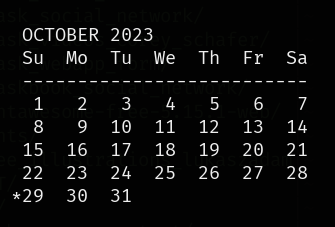
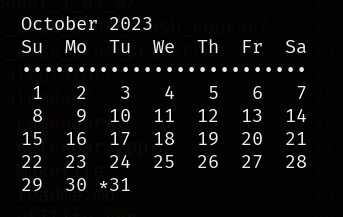
Update project
* remove uppercase letters
* change border design
* update screenshot

diff --git a/calendar.cpp b/calendar.cpp
@@ -17,7 +17,7 @@ int main()
     std::cout << '\n';
     std::cout << "  " << getMonth(month) << " " << year << '\n';
     std::cout << "  Su  Mo  Tu  We  Th  Fr  Sa" << '\n';
-    std::cout << "  --------------------------" << '\n';
+    std::cout << "  ••••••••••••••••••••••••••" << '\n';
 
     for (int d = 1; d <= monthEnd; d++)
     {

diff --git a/utility.cpp b/utility.cpp
@@ -123,9 +123,6 @@ std::string getMonth(int m)
             break;
     }
 
-    for (auto & c: month)
-        c = (char)toupper(c);
-
     return month;
 }
 
